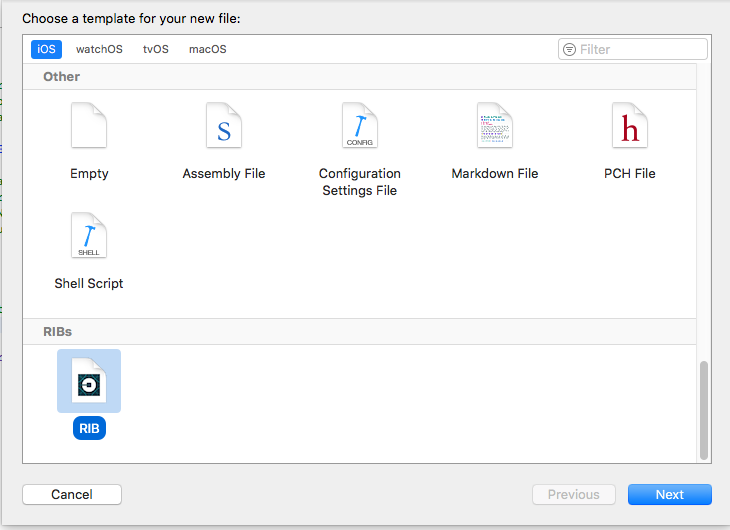
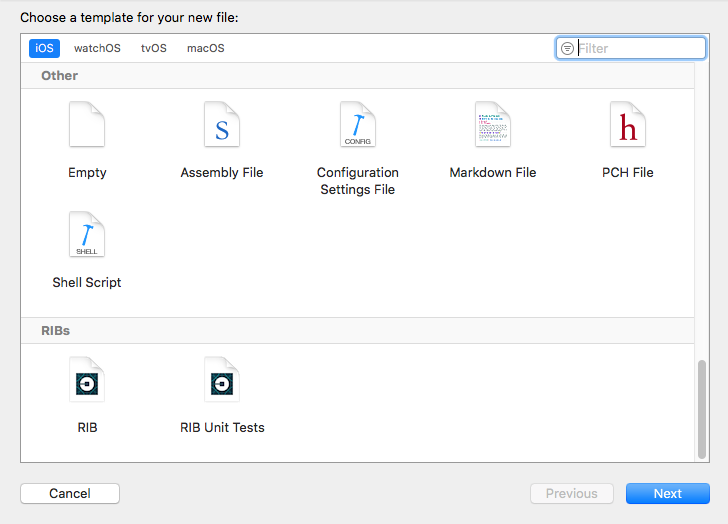
Adding iOS unit test generation

diff --git a/ios/tooling/RIB Unit Tests.xctemplate/Default/___FILEBASENAME___InteractorTests.swift b/ios/tooling/RIB Unit Tests.xctemplate/Default/___FILEBASENAME___InteractorTests.swift
@@ -1,0 +1,38 @@
+//
+//  Copyright (c) 2017. Uber Technologies
+//
+//  Licensed under the Apache License, Version 2.0 (the "License");
+//  you may not use this file except in compliance with the License.
+//  You may obtain a copy of the License at
+//
+//  http://www.apache.org/licenses/LICENSE-2.0
+//
+//  Unless required by applicable law or agreed to in writing, software
+//  distributed under the License is distributed on an "AS IS" BASIS,
+//  WITHOUT WARRANTIES OR CONDITIONS OF ANY KIND, either express or implied.
+//  See the License for the specific language governing permissions and
+//  limitations under the License.
+//
+
+@testable import ___PROJECTNAME___
+import XCTest
+
+final class ___VARIABLE_productName___InteractorTests: XCTestCase {
+
+    private var interactor: ___VARIABLE_productName___Interactor!
+
+    // TODO: declare other objects and mocks you need as private vars
+
+    override func setUp() {
+        super.setUp()
+
+        // TODO: instantiate objects and mocks
+    }
+
+    // MARK: - Tests
+
+    func test_exampleObservable_callsRouterOrListener_exampleProtocol() {
+        // This is an example of an interactor test case.
+        // Test your interactor binds observables and sends messages to router or listener.
+    }
+}

diff --git a/ios/tooling/RIB Unit Tests.xctemplate/Default/___FILEBASENAME___RouterTests.swift b/ios/tooling/RIB Unit Tests.xctemplate/Default/___FILEBASENAME___RouterTests.swift
@@ -1,0 +1,38 @@
+//
+//  Copyright (c) 2017. Uber Technologies
+//
+//  Licensed under the Apache License, Version 2.0 (the "License");
+//  you may not use this file except in compliance with the License.
+//  You may obtain a copy of the License at
+//
+//  http://www.apache.org/licenses/LICENSE-2.0
+//
+//  Unless required by applicable law or agreed to in writing, software
+//  distributed under the License is distributed on an "AS IS" BASIS,
+//  WITHOUT WARRANTIES OR CONDITIONS OF ANY KIND, either express or implied.
+//  See the License for the specific language governing permissions and
+//  limitations under the License.
+//
+
+@testable import ___PROJECTNAME___
+import XCTest
+
+final class ___VARIABLE_productName___RouterTests: XCTestCase {
+
+    private var router: ___VARIABLE_productName___Router!
+
+    // TODO: declare other objects and mocks you need as private vars
+
+    override func setUp() {
+        super.setUp()
+
+        // TODO: instantiate objects and mocks
+    }
+
+    // MARK: - Tests
+
+    func test_routeToExample_invokesToExampleResult() {
+        // This is an example of a router test case.
+        // Test your router functions invokes the corresponding builder, attachesChild, presents VC, etc.
+    }
+}

diff --git a/ios/tooling/README.md b/ios/tooling/README.md
@@ -1,8 +1,10 @@
 # RIB Xcode Templates
 
-We have created Xcode templates to generate RIBs scaffolding, making RIB usage and adoption easier. The scaffolded classes have RIBs wired up, ready to add business logic to them.
+We have created Xcode templates to generate RIBs scaffolding and test scaffolding, making RIB usage and adoption easier. The scaffolded classes have RIBs wired up, ready to add business logic to them.
 
-After installing templates, RIBs can be added with the `New File...` command in Xcode. This generates:
+### Generating RIBs
+
+After installing templates, RIBs can be added with the `New File...` command in Xcode.
 - [RIBName]Builder, [RIBName]Interactor, [RIBName]Router classes in all classes
 -  and [RIBName]ViewController class
 
@@ -13,6 +15,9 @@ RIBs can be generated with or without owning corresponding views.
 - **RIBs with view** generation does not generate a separate presenter class, only a `Presentable` interface, which the ViewController implements. This is to keep things simple and practical. In the majority of our use cases we have not found the need to create a standalone Presenter class to communicate with the View.
 - **Pure logic RIBs** often manipulate the view hierarchy in some way. In the router generated in these cases, a `cleanupViews` method is added where cleanup code should be implemented, once the RIB goes away. This method is not generated for RIBs with views, as in those cases, the parent will most likely detach the child and no manual cleanup would be needed.
 
+### Generating Tests
+
+Choose `RIB Unit Tests` in your test target to generate the boilerplate for Router and Interactor unit tests. Mocks are  not generated with this template: you will have to create and set these up yourself for the unit tests.
 
 ## Installation Instructions
 
